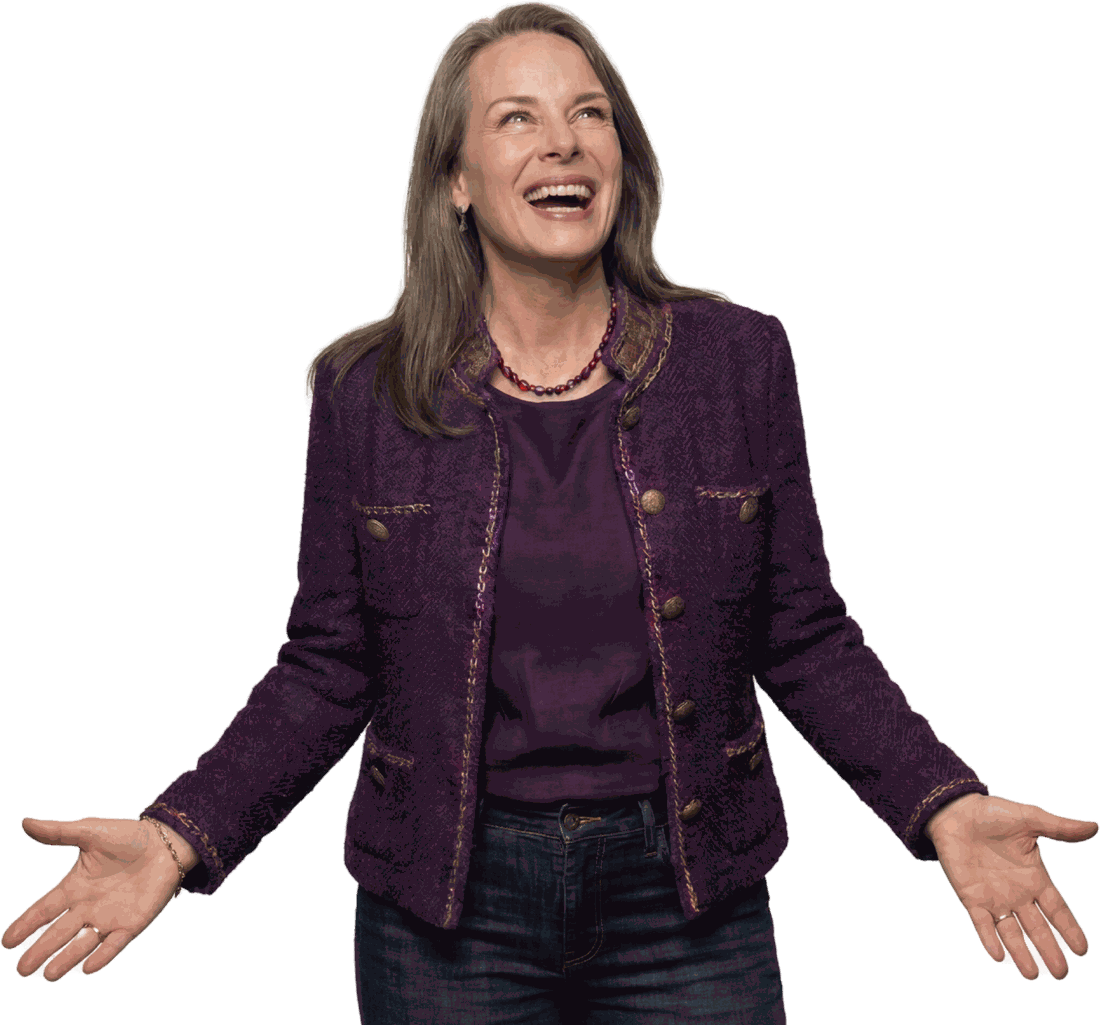
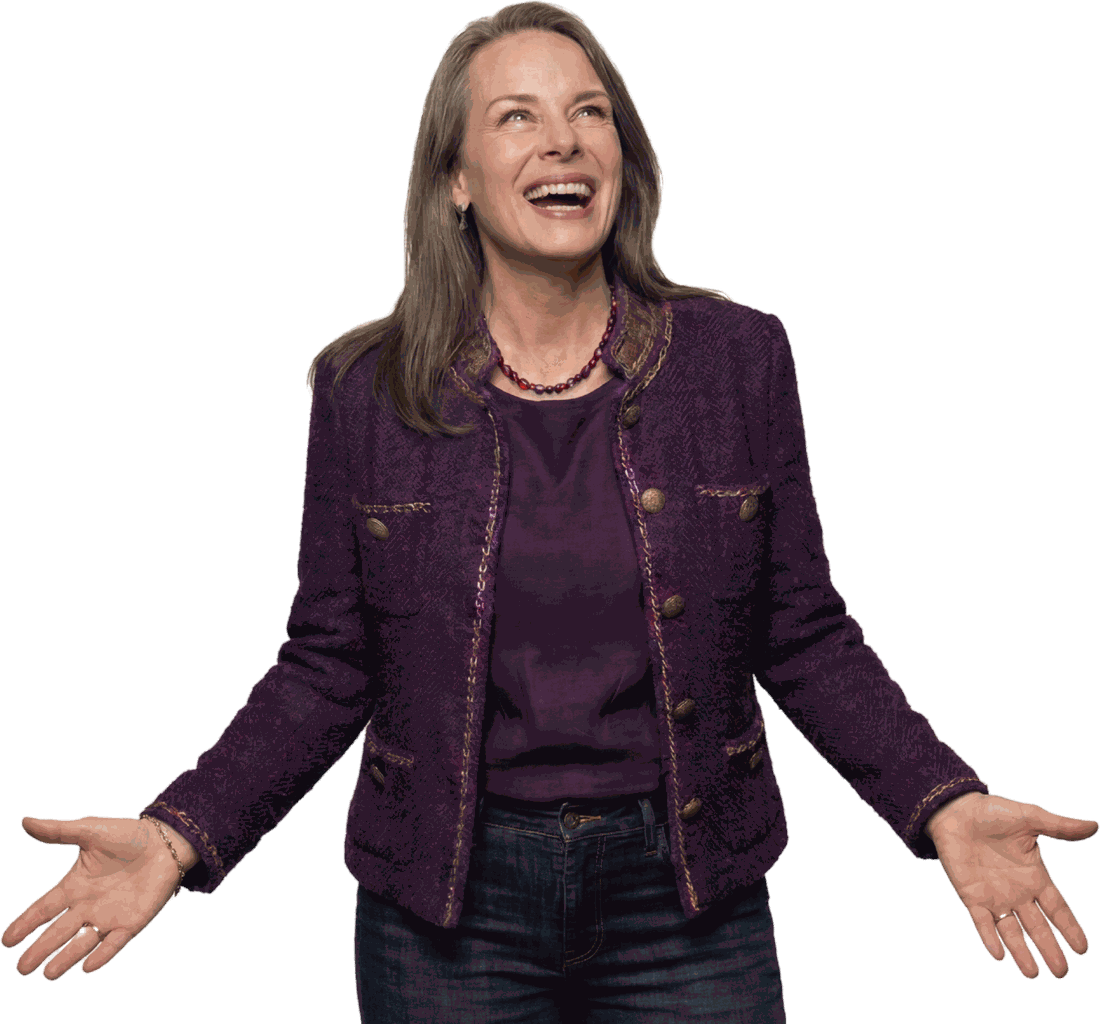
Refine hero glow, clean cutout edges, replace press strip with marquee
- Reprocess the hero cut-out (isnet + white-fringe removal) so there is no
  white halo between the fingers
- Brighten the radial glow toward near-white so any residual edge blends in
- Remove the dark 'undervalued resource' authority banner
- Replace the white-on-white press logos with a scrolling 'Featured in'
  marquee (purple on white) listing Forbes, Inc., TopRank Marketing, Small
  Business Trends, Money Magazine, Fast Company, Social Media Examiner,
  HubSpot, and LinkedIn Learning

Claude-Session: https://claude.ai/code/session_01Bg2iUbmDjsY4JVLEiE7cAu

diff --git a/site/css/styles.css b/site/css/styles.css
@@ -174,13 +174,14 @@ strong{ color:var(--p-purple); }
 /* soft radial glow behind the figure, like the Dreamboard hero */
 .hero-figure::before{
   content:""; position:absolute; z-index:0; pointer-events:none;
-  left:50%; top:44%; transform:translate(-50%,-50%);
-  width:84%; aspect-ratio:1/1; border-radius:50%;
+  left:50%; top:50%; transform:translate(-50%,-50%);
+  width:100%; aspect-ratio:1/1; border-radius:50%;
   background:radial-gradient(circle,
-    rgba(206,172,240,.60) 0%,
-    rgba(160,112,206,.30) 40%,
-    rgba(123,59,173,0) 70%);
-  filter:blur(8px);
+    rgba(247,241,253,.88) 0%,
+    rgba(214,184,244,.55) 30%,
+    rgba(156,106,204,.24) 54%,
+    rgba(123,59,173,0) 74%);
+  filter:blur(10px);
 }
 /* name + titles overlay the lower portion of the photo */
 .hero-caption{
@@ -247,6 +248,40 @@ strong{ color:var(--p-purple); }
 .press-strip{ display:flex; gap:48px; align-items:center; justify-content:center; flex-wrap:wrap; padding:34px 0; }
 .press-strip img{ height:30px; width:auto; filter:grayscale(1); opacity:.85; transition:opacity .2s; }
 .press-strip img:hover{ opacity:1; }
+
+/* ---------- "Featured in" scrolling marquee ---------- */
+.featured-in{ background:#fff; padding:30px 0; }
+.marquee{
+  overflow:hidden; width:100%;
+  -webkit-mask-image:linear-gradient(90deg, transparent, #000 7%, #000 93%, transparent);
+          mask-image:linear-gradient(90deg, transparent, #000 7%, #000 93%, transparent);
+}
+.marquee-track{
+  display:inline-flex; flex-wrap:nowrap; white-space:nowrap;
+  will-change:transform; animation:marquee 38s linear infinite;
+}
+.marquee:hover .marquee-track{ animation-play-state:paused; }
+.marquee-group{ display:inline-flex; align-items:center; }
+.marquee-item{
+  display:inline-flex; align-items:center;
+  font-family:'Bebas Neue', sans-serif; color:var(--p-purple);
+  font-size:1.55rem; letter-spacing:.09em; padding:0 24px; line-height:1;
+}
+.marquee-item::after{
+  content:"✦"; color:var(--p-gold); font-size:.62em; margin-left:24px; opacity:.75;
+}
+.marquee-lead{
+  font-family:'Playfair Display', Georgia, serif; font-style:italic;
+  color:var(--p-gold); font-size:1.2rem; letter-spacing:.02em; text-transform:none;
+}
+@keyframes marquee{
+  from{ transform:translateX(0); }
+  to{ transform:translateX(-50%); }
+}
+@media (prefers-reduced-motion:reduce){
+  .marquee-track{ animation:none; }
+  .marquee{ overflow-x:auto; }
+}
 
 /* ---------- imagery ---------- */
 .portrait{ border-radius:3px; box-shadow:var(--p-shadow); }

diff --git a/site/index.html b/site/index.html
@@ -87,24 +87,34 @@ height="0" width="0" style="display:none;visibility:hidden"></iframe></noscript>
   </div>
 </section>
 
-<!-- ===== AUTHORITY STATEMENT ===== -->
-<section class="section section--dark center">
-  <div class="wrap">
-    <span class="eyebrow">Bestselling Author · Speaker · Coach · Change-Agent</span>
-    <h2>The world's most undervalued resource is the wisdom of experienced women.</h2>
-    <hr class="gold-rule">
-    <p class="lead">Women's wisdom and words change the world — technology makes sure the world hears them. When women's wisdom becomes impossible to ignore, the world changes.</p>
-  </div>
-</section>
-
-<!-- ===== PRESS ===== -->
-<section class="section--tight">
-  <div class="wrap">
-    <div class="press-strip">
-      <img src="images/logo-forbes.png" alt="Forbes">
-      <img src="images/logo-inc.png" alt="Inc.">
-      <img src="images/logo-toprank.png" alt="TopRank Marketing">
-      <img src="images/logo-sbt.png" alt="Small Business Trends">
+<!-- ===== FEATURED IN (scrolling marquee) ===== -->
+<section class="section--tight featured-in">
+  <div class="marquee">
+    <div class="marquee-track">
+      <span class="marquee-group">
+        <span class="marquee-item marquee-lead">Featured in</span>
+        <span class="marquee-item">Forbes</span>
+        <span class="marquee-item">Inc.</span>
+        <span class="marquee-item">TopRank Marketing</span>
+        <span class="marquee-item">Small Business Trends</span>
+        <span class="marquee-item">Money Magazine</span>
+        <span class="marquee-item">Fast Company</span>
+        <span class="marquee-item">Social Media Examiner</span>
+        <span class="marquee-item">HubSpot</span>
+        <span class="marquee-item">LinkedIn Learning</span>
+      </span>
+      <span class="marquee-group" aria-hidden="true">
+        <span class="marquee-item marquee-lead">Featured in</span>
+        <span class="marquee-item">Forbes</span>
+        <span class="marquee-item">Inc.</span>
+        <span class="marquee-item">TopRank Marketing</span>
+        <span class="marquee-item">Small Business Trends</span>
+        <span class="marquee-item">Money Magazine</span>
+        <span class="marquee-item">Fast Company</span>
+        <span class="marquee-item">Social Media Examiner</span>
+        <span class="marquee-item">HubSpot</span>
+        <span class="marquee-item">LinkedIn Learning</span>
+      </span>
     </div>
   </div>
 </section>